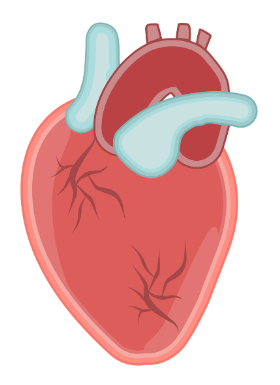
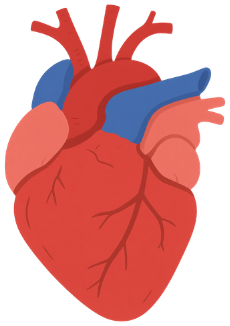
Update Anatomy System card to use Organ System 2 heart illustration

diff --git a/iOS/RileyApp/Sources/AnatomyExplorerView.swift b/iOS/RileyApp/Sources/AnatomyExplorerView.swift
@@ -1370,7 +1370,7 @@ public struct AnatomyExplorerView: View {
                     .scaleEffect(isSelected ? 1.06 : 1.0)
                     .shadow(color: isSelected ? Color(red: 0.88, green: 0.42, blue: 0.42).opacity(0.8) : Color.clear, radius: 10)
                 
-                if isSelected && selectedImageName == nil {
+                if isSelected {
                     ZStack {
                         Circle()
                             .fill(Color.white)

diff --git a/index.html b/index.html
@@ -5377,7 +5377,7 @@
       transition: transform 0.2s cubic-bezier(0.34, 1.56, 0.64, 1);
     }
 
-    .anatomy-system-item.selected:not([data-system="organ"]) .anatomy-system-item-badge {
+    .anatomy-system-item.selected .anatomy-system-item-badge {
       display: flex;
       align-items: center;
       justify-content: center;

diff --git a/preview/index.html b/preview/index.html
@@ -5477,7 +5477,7 @@
       transition: transform 0.2s cubic-bezier(0.34, 1.56, 0.64, 1);
     }
 
-    .anatomy-system-item.selected:not([data-system="organ"]) .anatomy-system-item-badge {
+    .anatomy-system-item.selected .anatomy-system-item-badge {
       display: flex;
       align-items: center;
       justify-content: center;

diff --git a/sw.js b/sw.js
@@ -1,5 +1,5 @@
 // Riley PWA Service Worker
-const CACHE_NAME = 'riley-pwa-v64';
+const CACHE_NAME = 'riley-pwa-v65';
 const PRECACHE_ASSETS = [
   './',
   './index.html',
